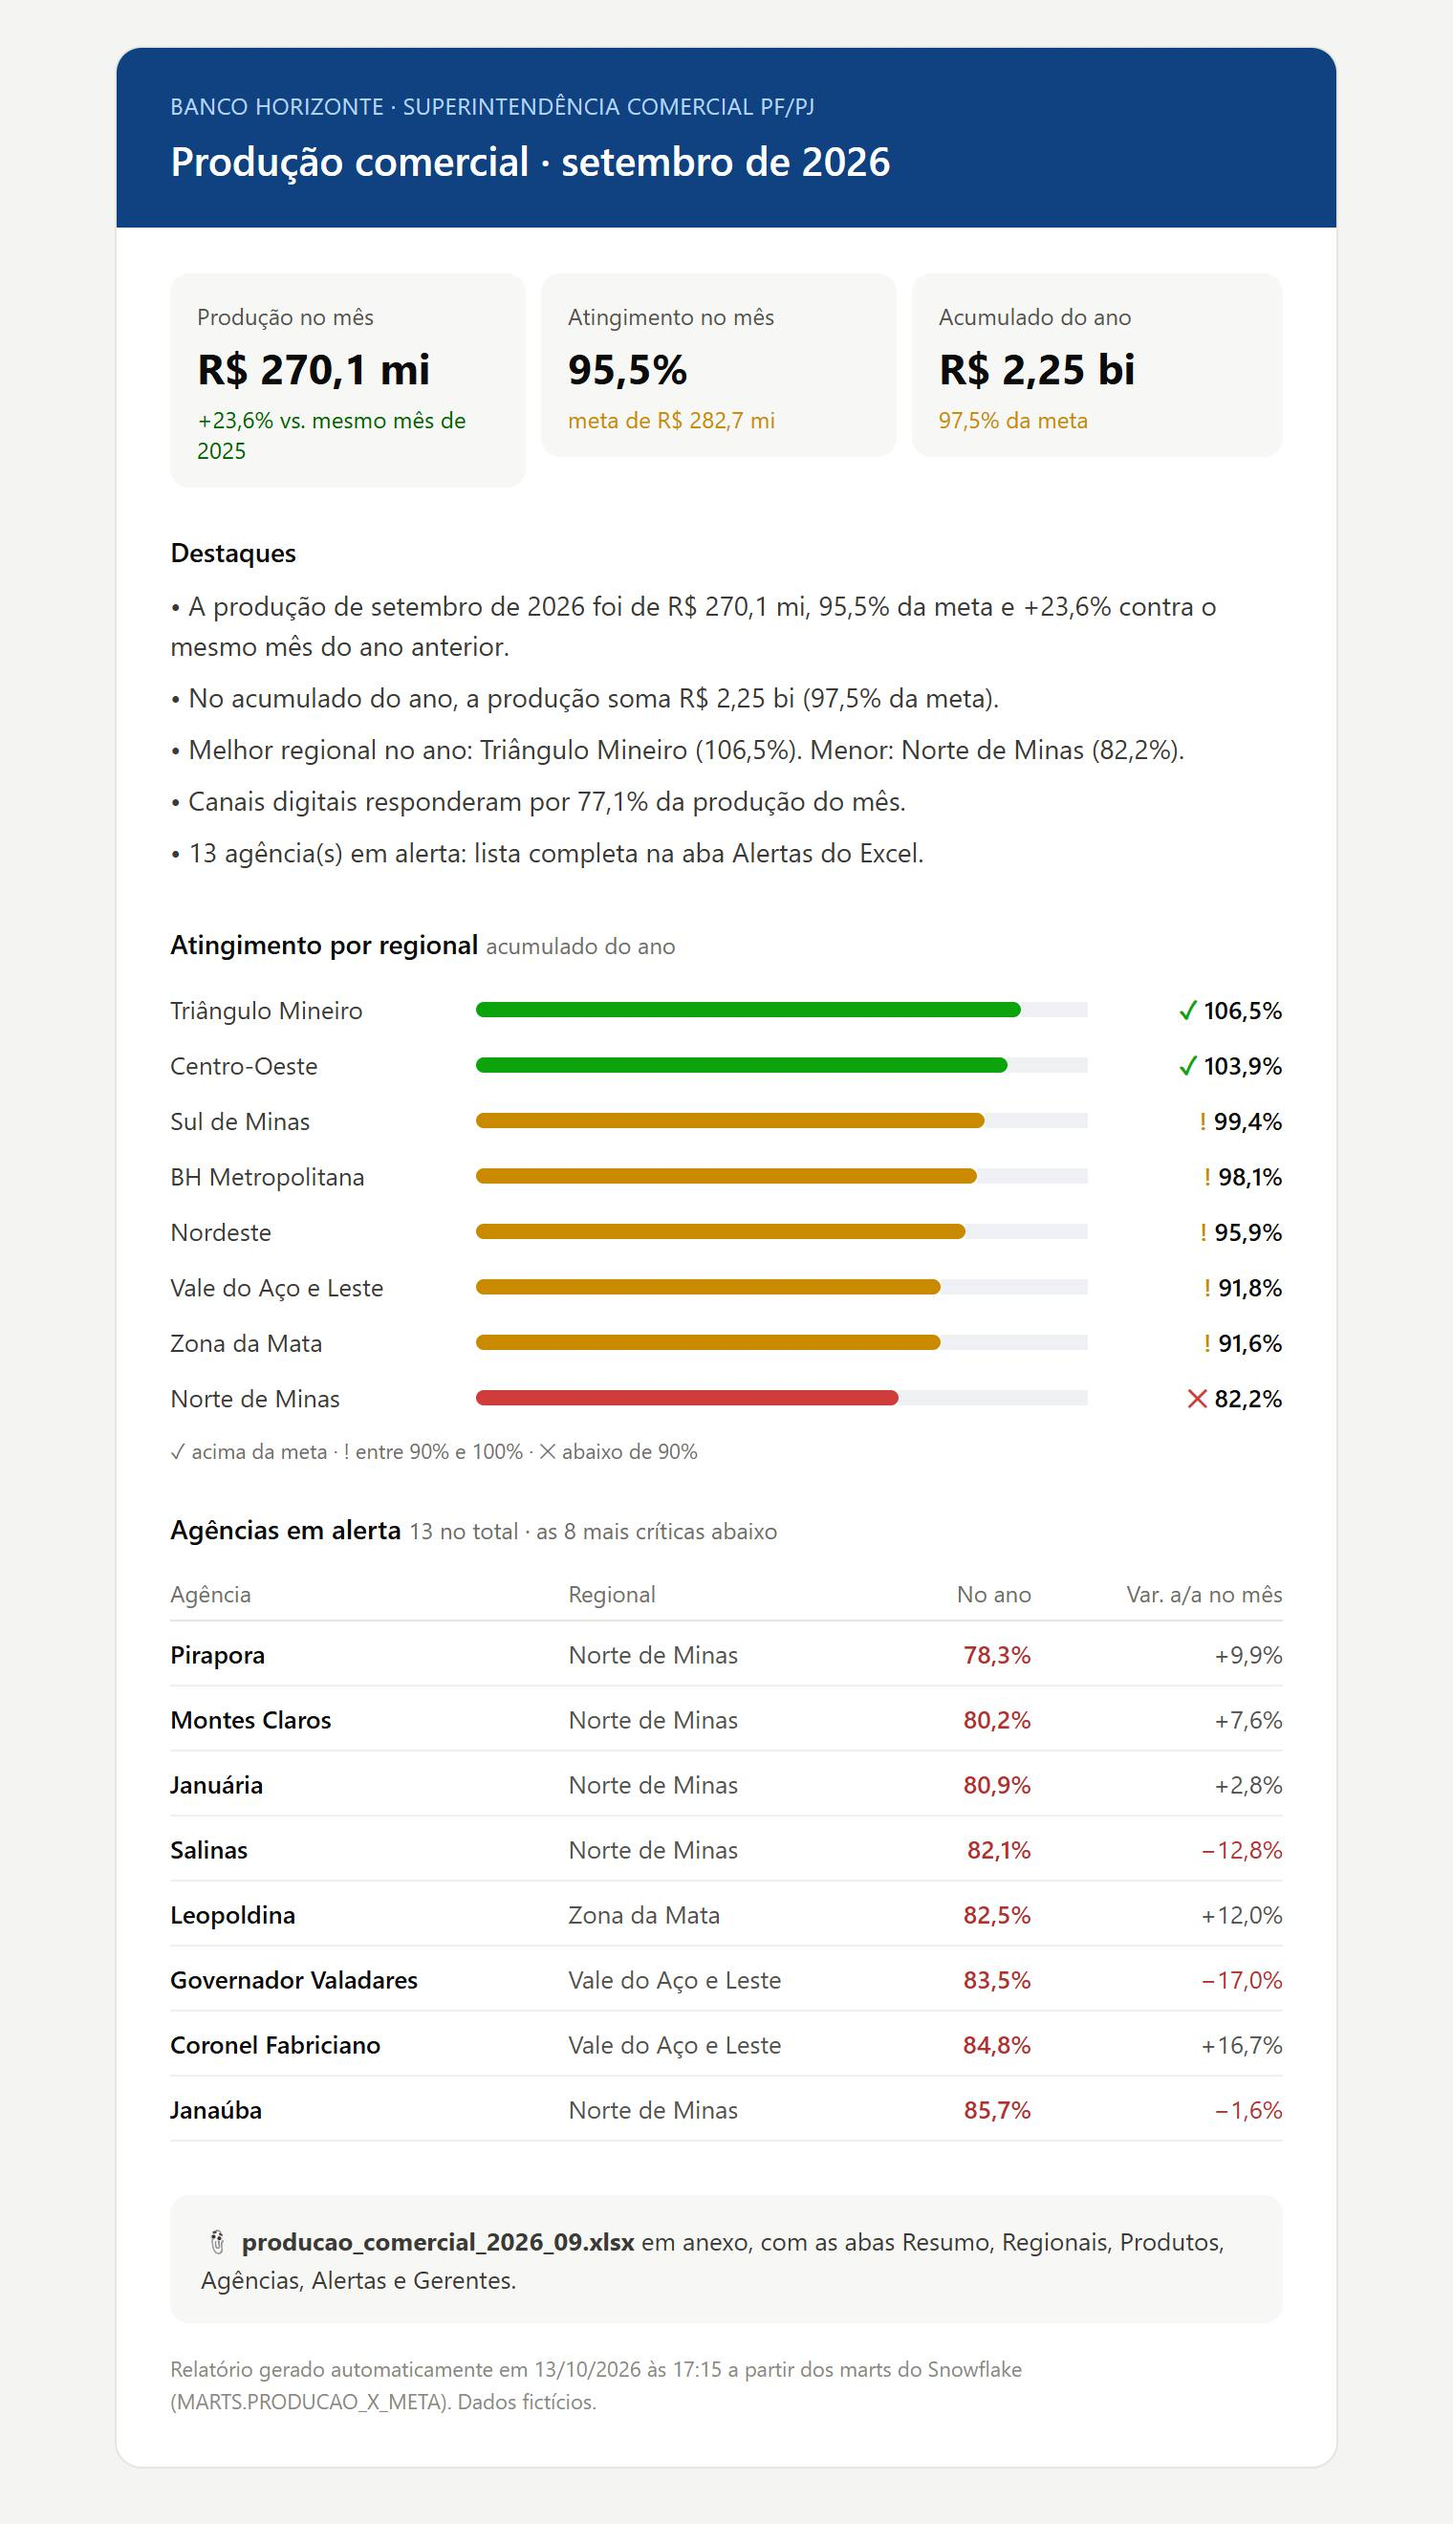
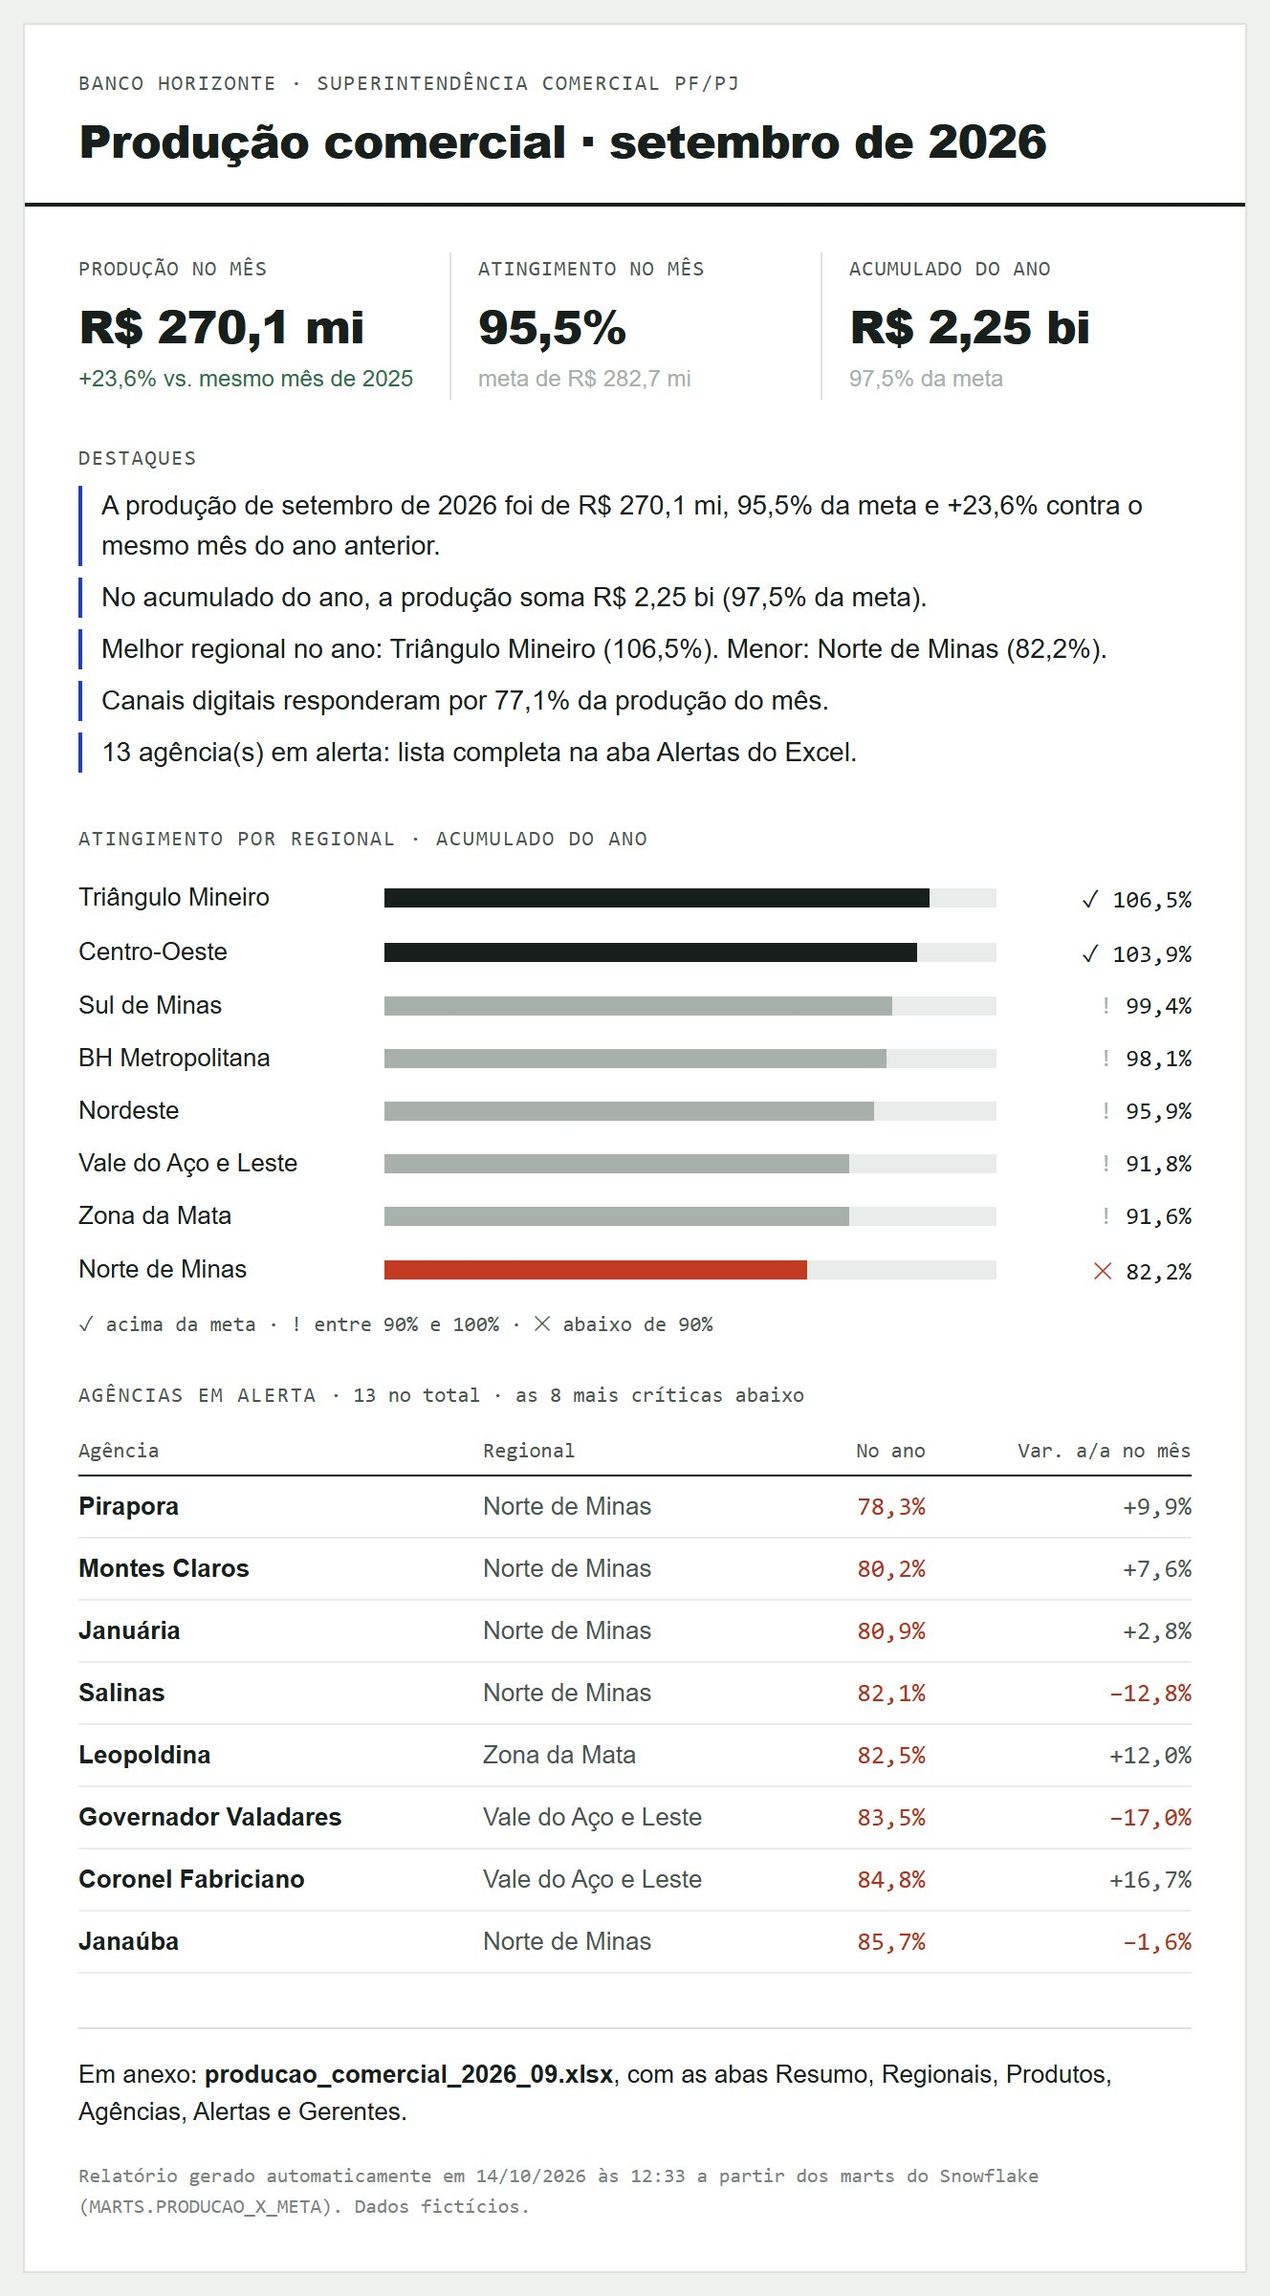
Novo visual do e-mail executivo

diff --git a/relatorio/email.py b/relatorio/email.py
@@ -13,7 +13,8 @@ from jinja2 import Environment, FileSystemLoader, select_autoescape
 from .indicadores import Relatorio, brl, pct, sinal
 
 TEMPLATES = Path(__file__).resolve().parents[1] / "templates"
-COR_STATUS = {"bom": "#0ca30c", "atencao": "#c98a00", "critico": "#d03b3b"}
+# só o problema ganha cor; acima da meta fica em tinta, entre 90% e 100% em cinza
+COR_STATUS = {"bom": "#17201c", "atencao": "#a7b0ab", "critico": "#c23a22"}
 
 
 def _status(a: float) -> tuple[str, str]:
@@ -30,7 +31,7 @@ def montar_html(r: Relatorio, assunto: str, anexo: str) -> str:
     kpis = [
         {"rotulo": "Produção no mês", "valor": brl(m.producao),
          "detalhe": f"{sinal(var)} vs. mesmo mês de {r.mes.year - 1}" if var is not None else "sem comparativo",
-         "cor": "#006300" if (var or 0) >= 0 else "#b42f2f"},
+         "cor": "#2c6e49" if (var or 0) >= 0 else "#b2331d"},
         {"rotulo": "Atingimento no mês", "valor": pct(m.atingimento), "detalhe": f"meta de {brl(m.meta)}", "cor": _status(m.atingimento)[0]},
         {"rotulo": "Acumulado do ano", "valor": brl(a.producao), "detalhe": f"{pct(a.atingimento)} da meta", "cor": _status(a.atingimento)[0]},
     ]
@@ -41,7 +42,7 @@ def montar_html(r: Relatorio, assunto: str, anexo: str) -> str:
         regionais.append({"regional": g.regional, "atingimento": pct(g.atingimento_ano), "cor": cor, "icone": icone,
                           "largura": max(2, round(g.atingimento_ano / maximo * 100))})
     alertas = [{"agencia": x.agencia, "regional": x.regional, "atingimento": pct(x.atingimento_ano),
-                "variacao": sinal(x.variacao_aa), "cor_var": "#b42f2f" if (x.variacao_aa or 0) < 0 else "#52514e"}
+                "variacao": sinal(x.variacao_aa), "cor_var": "#b2331d" if (x.variacao_aa or 0) < 0 else "#4b5651"}
                for x in r.alertas.head(8).itertuples()]
     env = Environment(loader=FileSystemLoader(TEMPLATES), autoescape=select_autoescape(["html", "j2"]))
     return env.get_template("email.html.j2").render(
